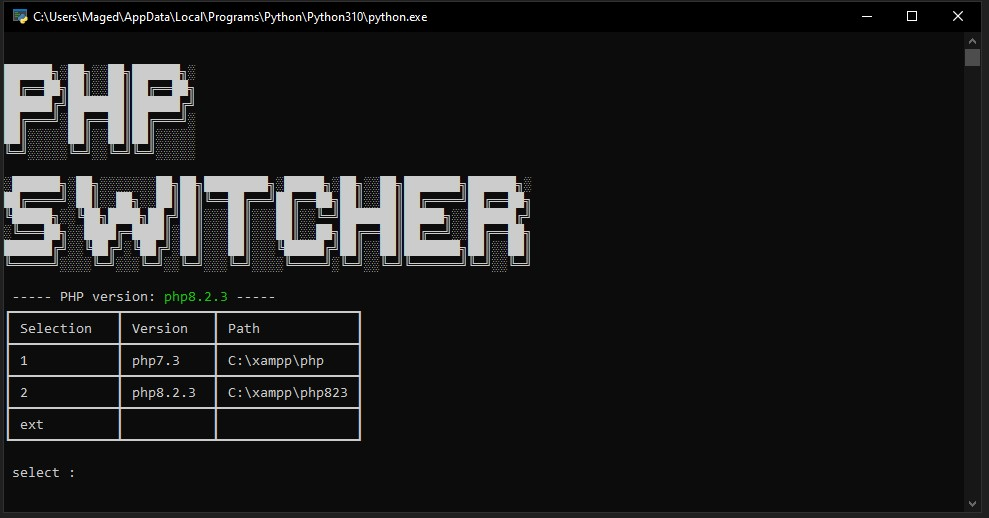
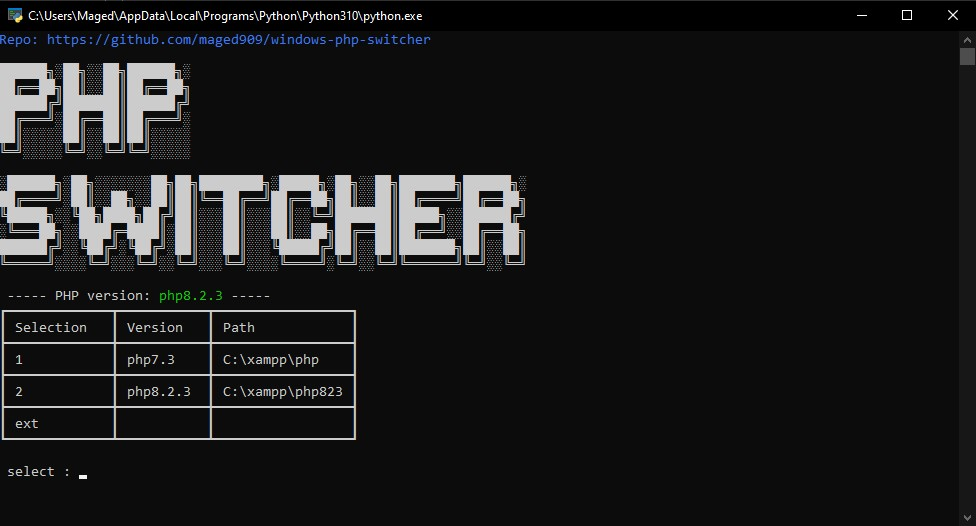
init

diff --git a/phpSwitcher.py b/phpSwitcher.py
@@ -5,7 +5,8 @@ from colorama import init, Fore,Back, Style
 init()
 
 errorColoring = Fore.WHITE + Back.RED
-docs = 'https://github.com/kingron/s#how-to-compile'
+docs = 'https://github.com/maged909/windows-php-switcher'
+configGuideUrl = "https://github.com/maged909/windows-php-switcher/blob/main/README.md#config-notes"
 
 # Define constants from the Windows API
 ASADMIN = 'asadmin'
@@ -22,6 +23,9 @@ def is_admin():
         return ctypes.windll.shell32.IsUserAnAdmin()
     except:
         return False
+    
+def configGuide():
+    print(errorColoring + f"Check Our Config Guide on the documentaions: {configGuideUrl} " + Style.RESET_ALL)
     
 
 if not is_admin():
@@ -40,17 +44,21 @@ if os.path.exists('config.json'):
     expected_keys = {"selection", 'path'}
     for key in php_versions:
         if not isinstance(php_versions[key], dict) or set(php_versions[key].keys()) != expected_keys:
-            print(errorColoring + "Config Error: 'config.json' has an invalid structure. key {} must have 'path' and 'selection' keys".format(key) + Style.RESET_ALL)
+            print(errorColoring + "Config Error: 'config.json' has an invalid structure. key {} must have 'path' and 'selection' keys." + Style.RESET_ALL)
+            configGuide()
             validationFailed = True
         if not validationFailed:
             if php_versions[key]['selection'] == 'ext':
                 print(errorColoring + "Config Error: selection for {} equals 'ext' which is a reserved value and cannot be used for 'selection'.".format(key)+ Style.RESET_ALL)
+                configGuide()
                 validationFailed = True
             if not os.path.isabs(php_versions[key]['path']):
                 print(errorColoring + "Config Error: 'path' value for '{}' is not a vaild absolute path.".format(key)+ Style.RESET_ALL)
+                configGuide()
                 validationFailed = True
             if re.search(r';', php_versions[key]['path']):
                 print(errorColoring + "Config Error: 'path' value for '{}' contains ';' character.".format(key)+ Style.RESET_ALL)
+                configGuide()
                 validationFailed = True
     if not validationFailed:
         # Check that there are no duplicate values in any key or value
@@ -59,10 +67,12 @@ if os.path.exists('config.json'):
             flat_values.extend(list(value.values()) + [key])
         if len(set(flat_values)) != len(flat_values):
             print(errorColoring + "Error: 'config.json' contains duplicate values."+Style.RESET_ALL)
+            configGuide()
         else:
             validConfig = True
 else:
     print(errorColoring + "Error: MISSING 'config.json' - does not exist in the current directory."+Style.RESET_ALL)
+    configGuide()
 
 if validConfig:
     # Add a new key-value pair to the dictionary
@@ -91,6 +101,7 @@ if validConfig:
 
     while True:
         os.system('cls')
+        print(Fore.BLUE +Style.BRIGHT + "Repo: " + docs + Style.RESET_ALL)
         print(file_contents)
 
         print(f" ----- PHP version: {Fore.GREEN +Style.BRIGHT + php_version + Style.RESET_ALL} -----")
